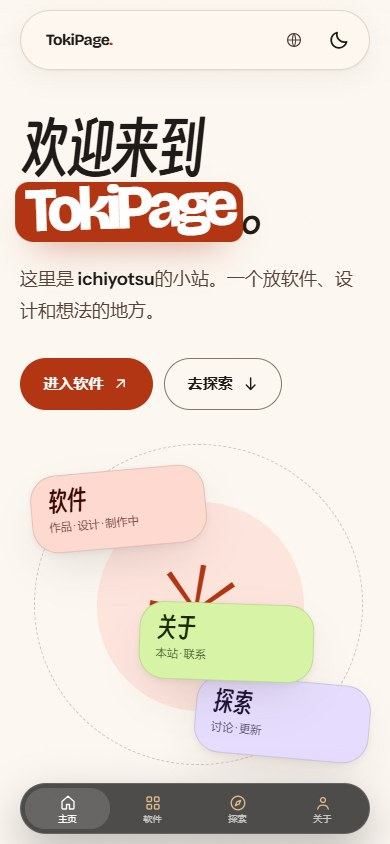
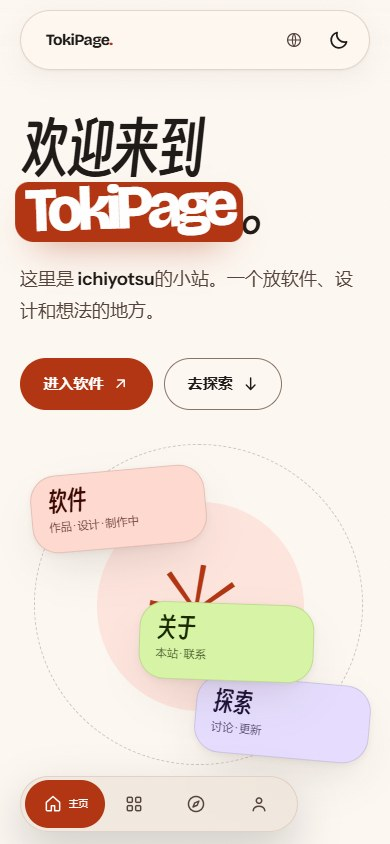
style: adopt MD3E dock and simplify TokiUI copy
Switch the mobile dock to MD3E glass segmented navigation with an expanding selected label and animated primary capsule, widen short text areas, restore the display face for detail notes, and keep the TokiUI section to plain introduction without component measurements.

Changed region(s): [[0.0308, 0.9242, 0.9538, 1.0]]

diff --git a/assets/css/components.css b/assets/css/components.css
@@ -1036,7 +1036,7 @@ body {
 @media (max-width: 860px) {
   .site-header .menu-button { display: none !important; }
   body {
-    padding-bottom: calc(86px + env(safe-area-inset-bottom));
+    padding-bottom: calc(94px + env(safe-area-inset-bottom));
   }
 
   .site-footer {
@@ -1066,63 +1066,87 @@ body {
   .mobile-dock {
     position: fixed;
     left: var(--gutter);
-    right: var(--gutter);
-    bottom: calc(10px + env(safe-area-inset-bottom));
+    right: calc(var(--gutter) + 72px);
+    bottom: calc(12px + env(safe-area-inset-bottom));
     z-index: 175;
     display: flex;
-    align-items: stretch;
-    justify-content: space-around;
-    height: 51px;
+    align-items: center;
+    justify-content: space-between;
+    height: 56px;
     padding: 4px;
-    border: 1px solid rgb(255 255 255 / 0.14);
-    border-radius: 26px;
-    background: rgb(28 28 30 / 0.78);
-    box-shadow: 0 18px 44px rgb(0 0 0 / 0.26);
-    backdrop-filter: blur(24px) saturate(1.5);
-    -webkit-backdrop-filter: blur(24px) saturate(1.5);
+    border: 1px solid color-mix(in srgb, var(--md-sys-color-outline-variant) 72%, transparent);
+    border-radius: 36px;
+    background: color-mix(in srgb, var(--md-sys-color-surface-container-high) 68%, transparent);
+    box-shadow: 0 18px 44px rgb(0 0 0 / 0.18);
+    backdrop-filter: blur(24px) saturate(1.4);
+    -webkit-backdrop-filter: blur(24px) saturate(1.4);
   }
 
-  body[data-page="garden"] .mobile-dock { right: calc(var(--gutter) + 63px); }
+  body[data-page="garden"] .mobile-dock { right: calc(var(--gutter) + 72px); }
 
   .mobile-dock a {
     display: flex;
     min-width: 0;
-    flex: 1;
-    flex-direction: column;
+    flex: 1 1 0;
+    height: 48px;
+    flex-direction: row;
     align-items: center;
     justify-content: center;
-    gap: 2px;
-    border-radius: 19px;
-    color: rgb(255 255 255 / 0.68);
+    gap: 6px;
+    padding: 0 6px;
+    border-radius: 28px;
+    color: var(--md-sys-color-on-surface-variant);
     font-family: var(--font-body);
-    font-size: 0.58rem;
+    font-size: 0.6rem;
     line-height: 1;
     text-decoration: none;
+    transition:
+      flex-grow 0.34s cubic-bezier(0.2, 0.8, 0.2, 1),
+      background-color 0.26s var(--ease-emphasized),
+      color 0.26s var(--ease-emphasized),
+      transform 0.18s var(--ease-spring);
   }
 
-  .mobile-dock a .icon { width: 18px; height: 18px; color: rgb(242 200 143 / 0.9); }
-  .mobile-dock a[aria-current="page"] { border-radius: 20px; background: rgb(255 255 255 / 0.14); color: #fff; }
-  .mobile-dock a[aria-current="page"] .icon { color: #fff; }
+  .mobile-dock a .icon { width: 20px; height: 20px; flex: none; color: var(--md-sys-color-on-surface-variant); }
+  .mobile-dock a span {
+    max-width: 0;
+    overflow: hidden;
+    opacity: 0;
+    transform: translateX(-4px);
+    white-space: nowrap;
+    transition: max-width 0.32s cubic-bezier(0.2, 0.8, 0.2, 1), opacity 0.2s var(--ease-emphasized), transform 0.32s var(--ease-spring);
+  }
+
+  .mobile-dock a[aria-current="page"] {
+    flex-grow: 1.35;
+    border-radius: 28px;
+    background: var(--md-sys-color-primary);
+    color: var(--md-sys-color-on-primary);
+    animation: md3e-dock-in 0.32s var(--ease-spring) both;
+  }
+  .mobile-dock a[aria-current="page"] .icon { color: var(--md-sys-color-on-primary); }
+  .mobile-dock a[aria-current="page"] span { max-width: 72px; opacity: 1; transform: translateX(0); }
+  .mobile-dock a:active { transform: scale(0.94); }
 
   body[data-page="garden"] .compose-fab {
     left: auto;
     right: var(--gutter);
-    bottom: calc(10px + env(safe-area-inset-bottom));
-    width: 51px;
-    height: 51px;
-    min-height: 51px;
-    max-height: 51px;
+    bottom: calc(8px + env(safe-area-inset-bottom));
+    width: 64px;
+    height: 64px;
+    min-height: 64px;
+    max-height: 64px;
     padding: 0;
     justify-content: center;
+    border-radius: 18px;
     transform: none;
   }
 
-  body[data-page="garden"] .compose-fab .icon { width: 22px; height: 22px; }
+  body[data-page="garden"] .compose-fab .icon { width: 28px; height: 28px; }
   body[data-page="garden"] .compose-fab span { display: none; }
-}
-
-@media (max-width: 360px) {
-  .mobile-dock a { font-size: 0.54rem; }
+@keyframes md3e-dock-in {
+  from { transform: scale(0.92); }
+  to { transform: scale(1); }
 }
 
 
@@ -1156,8 +1180,8 @@ textarea:focus-visible,
 
   body[data-page="garden"] .mobile-dock {
     left: auto;
-    right: calc(var(--gutter) + 63px);
-    width: min(364px, calc(100% - 2 * var(--gutter) - 63px));
+    right: calc(var(--gutter) + 72px);
+    width: min(364px, calc(100% - 2 * var(--gutter) - 72px));
     transform: none;
   }
 }

diff --git a/software/index.html b/software/index.html
@@ -51,11 +51,11 @@
   <link rel="preload" href="/assets/fonts/smiley-sans-subset.woff2" as="font" type="font/woff2" crossorigin>
   <link rel="preload" href="/assets/fonts/instrument-sans.woff2" as="font" type="font/woff2" crossorigin>
 
-  <link rel="stylesheet" href="/assets/css/tokens.css">
-  <link rel="stylesheet" href="/assets/css/base.css">
-  <link rel="stylesheet" href="/assets/css/components.css">
-  <link rel="stylesheet" href="/assets/css/sections.css">
-  <link rel="stylesheet" href="/assets/css/pages.css">
+  <link rel="stylesheet" href="/assets/css/tokens.css?v=20261030">
+  <link rel="stylesheet" href="/assets/css/base.css?v=20261030">
+  <link rel="stylesheet" href="/assets/css/components.css?v=20261030">
+  <link rel="stylesheet" href="/assets/css/sections.css?v=20261030">
+  <link rel="stylesheet" href="/assets/css/pages.css?v=20261030">
 
   <script>
     document.documentElement.classList.replace('no-js', 'js');
@@ -305,8 +305,8 @@
           <article class="tokiui-card" data-reveal style="--reveal-delay: 80ms">
             <h3>一套界面语言。</h3>
             <ul class="tokiui-list">
-              <li><strong>Floating Dock</strong><span>悬浮玻璃底栏与选中胶囊。</span></li>
-              <li><strong>FAB</strong><span>和底栏同一行的圆形主操作。</span></li>
+              <li><strong>Floating Dock</strong><span>MD3E 悬浮玻璃 Dock，选中项主色胶囊与展开标签。</span></li>
+              <li><strong>FAB</strong><span>MD3E 圆角主操作，和 Dock 同一行。</span></li>
               <li><strong>Collapsing Header</strong><span>随滚动折叠的标题区。</span></li>
               <li><strong>Floating Drawer</strong><span>从侧边浮出的导航与文件面板。</span></li>
               <li><strong>Settings List</strong><span>分组明确、留白充足的设置列表。</span></li>

diff --git a/about/index.html b/about/index.html
@@ -29,11 +29,11 @@
   <link rel="preload" href="/assets/fonts/bricolage-grotesque.woff2" as="font" type="font/woff2" crossorigin>
   <link rel="preload" href="/assets/fonts/smiley-sans-subset.woff2" as="font" type="font/woff2" crossorigin>
   <link rel="preload" href="/assets/fonts/instrument-sans.woff2" as="font" type="font/woff2" crossorigin>
-  <link rel="stylesheet" href="/assets/css/tokens.css">
-  <link rel="stylesheet" href="/assets/css/base.css">
-  <link rel="stylesheet" href="/assets/css/components.css">
-  <link rel="stylesheet" href="/assets/css/sections.css">
-  <link rel="stylesheet" href="/assets/css/pages.css">
+  <link rel="stylesheet" href="/assets/css/tokens.css?v=20261030">
+  <link rel="stylesheet" href="/assets/css/base.css?v=20261030">
+  <link rel="stylesheet" href="/assets/css/components.css?v=20261030">
+  <link rel="stylesheet" href="/assets/css/sections.css?v=20261030">
+  <link rel="stylesheet" href="/assets/css/pages.css?v=20261030">
   <script>
     document.documentElement.classList.replace('no-js', 'js');
     (function () {

diff --git a/garden/index.html b/garden/index.html
@@ -29,11 +29,11 @@
   <link rel="preload" href="/assets/fonts/bricolage-grotesque.woff2" as="font" type="font/woff2" crossorigin>
   <link rel="preload" href="/assets/fonts/smiley-sans-subset.woff2" as="font" type="font/woff2" crossorigin>
   <link rel="preload" href="/assets/fonts/instrument-sans.woff2" as="font" type="font/woff2" crossorigin>
-  <link rel="stylesheet" href="/assets/css/tokens.css">
-  <link rel="stylesheet" href="/assets/css/base.css">
-  <link rel="stylesheet" href="/assets/css/components.css">
-  <link rel="stylesheet" href="/assets/css/sections.css">
-  <link rel="stylesheet" href="/assets/css/pages.css">
+  <link rel="stylesheet" href="/assets/css/tokens.css?v=20261030">
+  <link rel="stylesheet" href="/assets/css/base.css?v=20261030">
+  <link rel="stylesheet" href="/assets/css/components.css?v=20261030">
+  <link rel="stylesheet" href="/assets/css/sections.css?v=20261030">
+  <link rel="stylesheet" href="/assets/css/pages.css?v=20261030">
   <script>
     document.documentElement.classList.replace('no-js', 'js');
     (function () {

diff --git a/index.html b/index.html
@@ -51,11 +51,11 @@
   <link rel="preload" href="/assets/fonts/smiley-sans-subset.woff2" as="font" type="font/woff2" crossorigin>
   <link rel="preload" href="/assets/fonts/instrument-sans.woff2" as="font" type="font/woff2" crossorigin>
 
-  <link rel="stylesheet" href="/assets/css/tokens.css">
-  <link rel="stylesheet" href="/assets/css/base.css">
-  <link rel="stylesheet" href="/assets/css/components.css">
-  <link rel="stylesheet" href="/assets/css/sections.css">
-  <link rel="stylesheet" href="/assets/css/pages.css">
+  <link rel="stylesheet" href="/assets/css/tokens.css?v=20261030">
+  <link rel="stylesheet" href="/assets/css/base.css?v=20261030">
+  <link rel="stylesheet" href="/assets/css/components.css?v=20261030">
+  <link rel="stylesheet" href="/assets/css/sections.css?v=20261030">
+  <link rel="stylesheet" href="/assets/css/pages.css?v=20261030">
 
   <script>
     document.documentElement.classList.replace('no-js', 'js');

diff --git a/software/luna/index.html b/software/luna/index.html
@@ -51,11 +51,11 @@
   <link rel="preload" href="/assets/fonts/smiley-sans-subset.woff2" as="font" type="font/woff2" crossorigin>
   <link rel="preload" href="/assets/fonts/instrument-sans.woff2" as="font" type="font/woff2" crossorigin>
 
-  <link rel="stylesheet" href="/assets/css/tokens.css">
-  <link rel="stylesheet" href="/assets/css/base.css">
-  <link rel="stylesheet" href="/assets/css/components.css">
-  <link rel="stylesheet" href="/assets/css/sections.css">
-  <link rel="stylesheet" href="/assets/css/pages.css">
+  <link rel="stylesheet" href="/assets/css/tokens.css?v=20261030">
+  <link rel="stylesheet" href="/assets/css/base.css?v=20261030">
+  <link rel="stylesheet" href="/assets/css/components.css?v=20261030">
+  <link rel="stylesheet" href="/assets/css/sections.css?v=20261030">
+  <link rel="stylesheet" href="/assets/css/pages.css?v=20261030">
 
   <script>
     document.documentElement.classList.replace('no-js', 'js');

diff --git a/software/tokifonts/index.html b/software/tokifonts/index.html
@@ -50,11 +50,11 @@
   <link rel="preload" href="/assets/fonts/smiley-sans-subset.woff2" as="font" type="font/woff2" crossorigin>
   <link rel="preload" href="/assets/fonts/instrument-sans.woff2" as="font" type="font/woff2" crossorigin>
 
-  <link rel="stylesheet" href="/assets/css/tokens.css">
-  <link rel="stylesheet" href="/assets/css/base.css">
-  <link rel="stylesheet" href="/assets/css/components.css">
-  <link rel="stylesheet" href="/assets/css/sections.css">
-  <link rel="stylesheet" href="/assets/css/pages.css">
+  <link rel="stylesheet" href="/assets/css/tokens.css?v=20261030">
+  <link rel="stylesheet" href="/assets/css/base.css?v=20261030">
+  <link rel="stylesheet" href="/assets/css/components.css?v=20261030">
+  <link rel="stylesheet" href="/assets/css/sections.css?v=20261030">
+  <link rel="stylesheet" href="/assets/css/pages.css?v=20261030">
 
   <script>
     document.documentElement.classList.replace('no-js', 'js');

diff --git a/software/tokinote/index.html b/software/tokinote/index.html
@@ -51,11 +51,11 @@
   <link rel="preload" href="/assets/fonts/smiley-sans-subset.woff2" as="font" type="font/woff2" crossorigin>
   <link rel="preload" href="/assets/fonts/instrument-sans.woff2" as="font" type="font/woff2" crossorigin>
 
-  <link rel="stylesheet" href="/assets/css/tokens.css">
-  <link rel="stylesheet" href="/assets/css/base.css">
-  <link rel="stylesheet" href="/assets/css/components.css">
-  <link rel="stylesheet" href="/assets/css/sections.css">
-  <link rel="stylesheet" href="/assets/css/pages.css">
+  <link rel="stylesheet" href="/assets/css/tokens.css?v=20261030">
+  <link rel="stylesheet" href="/assets/css/base.css?v=20261030">
+  <link rel="stylesheet" href="/assets/css/components.css?v=20261030">
+  <link rel="stylesheet" href="/assets/css/sections.css?v=20261030">
+  <link rel="stylesheet" href="/assets/css/pages.css?v=20261030">
 
   <script>
     document.documentElement.classList.replace('no-js', 'js');

diff --git a/software/tokitodo/index.html b/software/tokitodo/index.html
@@ -51,11 +51,11 @@
   <link rel="preload" href="/assets/fonts/smiley-sans-subset.woff2" as="font" type="font/woff2" crossorigin>
   <link rel="preload" href="/assets/fonts/instrument-sans.woff2" as="font" type="font/woff2" crossorigin>
 
-  <link rel="stylesheet" href="/assets/css/tokens.css">
-  <link rel="stylesheet" href="/assets/css/base.css">
-  <link rel="stylesheet" href="/assets/css/components.css">
-  <link rel="stylesheet" href="/assets/css/sections.css">
-  <link rel="stylesheet" href="/assets/css/pages.css">
+  <link rel="stylesheet" href="/assets/css/tokens.css?v=20261030">
+  <link rel="stylesheet" href="/assets/css/base.css?v=20261030">
+  <link rel="stylesheet" href="/assets/css/components.css?v=20261030">
+  <link rel="stylesheet" href="/assets/css/sections.css?v=20261030">
+  <link rel="stylesheet" href="/assets/css/pages.css?v=20261030">
 
   <script>
     document.documentElement.classList.replace('no-js', 'js');

diff --git a/404.html b/404.html
@@ -7,11 +7,11 @@
   <meta name="robots" content="noindex">
   <meta name="theme-color" content="#FDF8F2" id="theme-color">
   <link rel="icon" href="/assets/img/favicon.svg" type="image/svg+xml">
-  <link rel="stylesheet" href="/assets/css/tokens.css">
-  <link rel="stylesheet" href="/assets/css/base.css">
-  <link rel="stylesheet" href="/assets/css/components.css">
-  <link rel="stylesheet" href="/assets/css/sections.css">
-  <link rel="stylesheet" href="/assets/css/pages.css">
+  <link rel="stylesheet" href="/assets/css/tokens.css?v=20261030">
+  <link rel="stylesheet" href="/assets/css/base.css?v=20261030">
+  <link rel="stylesheet" href="/assets/css/components.css?v=20261030">
+  <link rel="stylesheet" href="/assets/css/sections.css?v=20261030">
+  <link rel="stylesheet" href="/assets/css/pages.css?v=20261030">
   <script>
     document.documentElement.classList.replace('no-js', 'js');
     (function () {

diff --git a/assets/css/pages.css b/assets/css/pages.css
@@ -4925,3 +4925,15 @@ body { overflow-x: clip; }
   letter-spacing: -0.035em;
   line-height: 1.55;
 }
+
+/* Wider short text; keep long-form within readable measure. */
+.tokiui-intro__copy,
+.tokiui-lead,
+.project-hero__tagline,
+.making-card p,
+.other-project p { max-width: none; }
+
+.project-note p {
+  font-size: clamp(1.16rem, 1.45vw, 1.34rem);
+  line-height: 1.52;
+}

diff --git a/README.md b/README.md
@@ -38,7 +38,7 @@
 - 页面以 1920×1080 为主要设计视口，内容最大宽度 1800px，左右留出呼吸区。
 - 顶栏、页面顶部和底部都有轻量渐变磨砂；顶栏模糊随滚动从 14px 加深到 26px。
 - 顶栏按钮按下会轻微回弹，并有一次边缘线条扩散动画；品牌 `TokiPage.` 悬停时出现整圆角底色。
-- 桌面底栏常驻，带磨砂与渐隐过渡；高度 54px，页面内容不会被永久遮住。手机端改成 TokiNote / TokiUI 风格的深色磨砂悬浮底栏：51px 高、26px 圆角，选中项用白色 14% 大圆角胶囊；滑到页面底部时，原来的 ichiyotsu 页脚会作为静态内容显示在悬浮栏上方。
+- 桌面底栏常驻，带磨砂与渐隐过渡；高度 54px，页面内容不会被永久遮住。手机端改成 TokiNote 的 MD3E 风格：悬浮玻璃 Dock，选中项是主色胶囊并展开文字标签，FAB 使用 MD3E 圆角主操作；滑到页面底部时，原来的 ichiyotsu 页脚会作为静态内容显示在悬浮栏上方。
 - 顶栏是 999px 全圆角的胶囊形，避免显得方正。
 
 ## 主页
